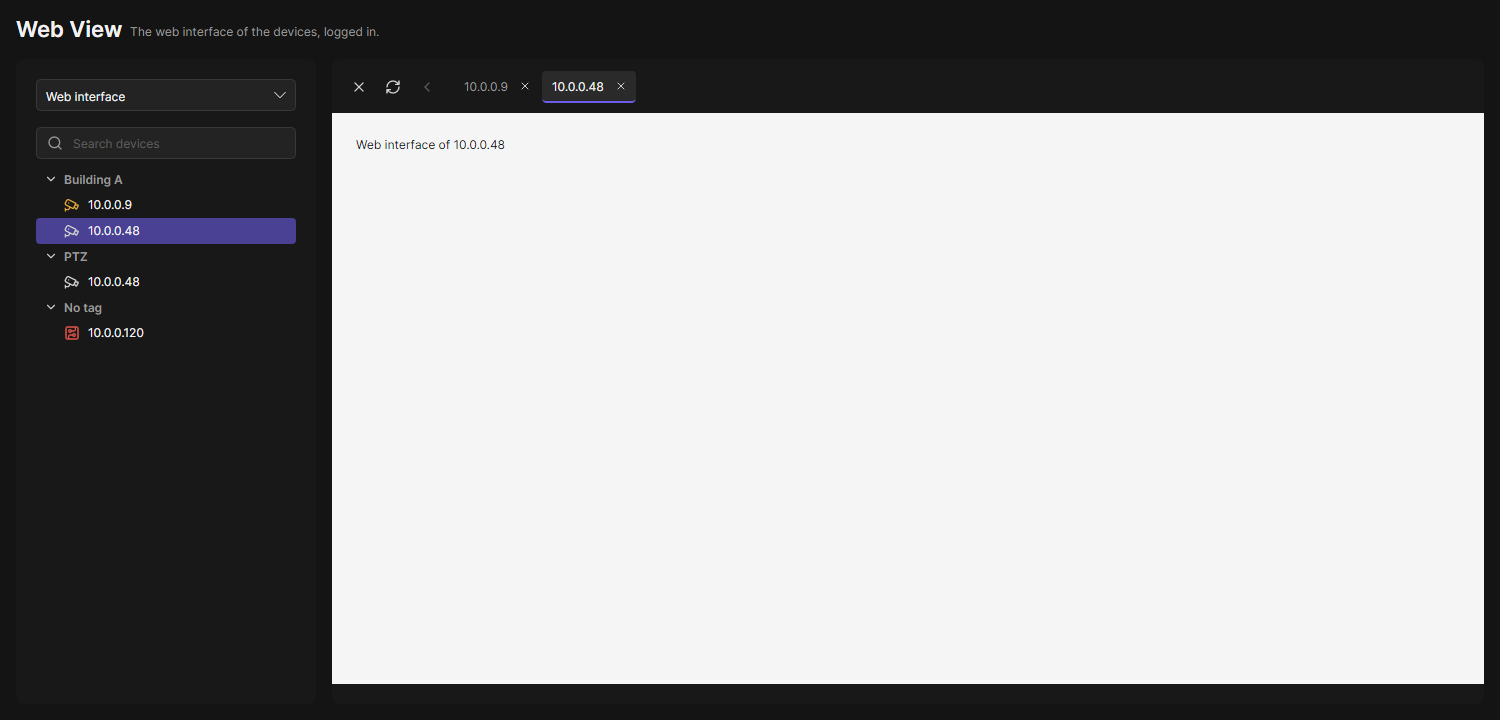
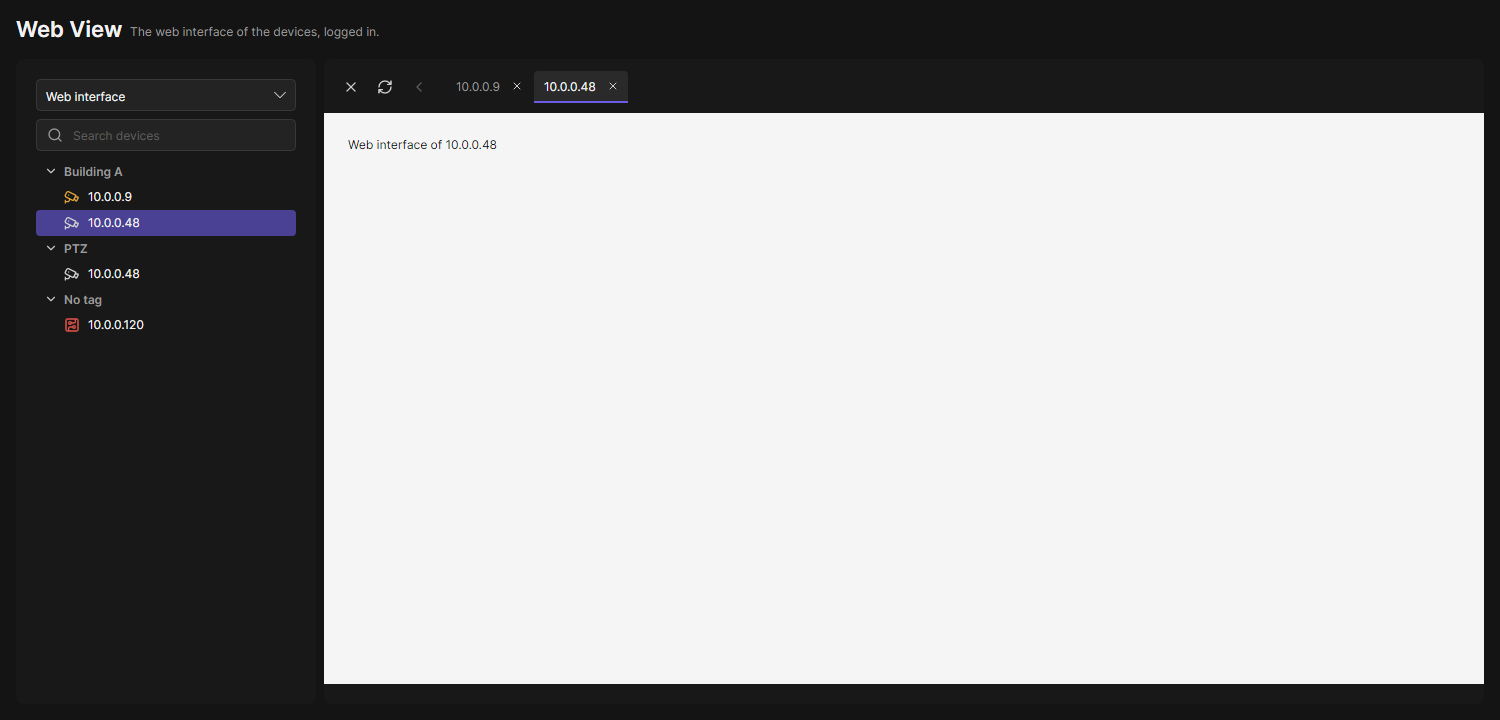
feat(website): animated text sequence on the main page, plugin links
The hero screenshot is replaced by a text-only sequence of sliced
typography: the main claims, then every feature by name with one
sentence. The feature cards become one row of plugin links under
"Explore the plugins". Updated Plugins page and Web View screenshots.

Claude-Session: https://claude.ai/code/session_01DxqjaJMjAJLyCUSTpPxG58

Changed region(s): [[0.0307, 0.1528, 0.3373, 0.9472], [0.368, 0.0917, 0.3987, 0.1528], [0.3067, 0.0917, 0.3373, 0.1528]]

diff --git a/website/src/styles/oadm.css b/website/src/styles/oadm.css
@@ -108,10 +108,6 @@ html[data-has-hero] header site-search {
 	box-shadow: 0 12px 40px rgb(0 0 0 / 0.35);
 }
 
-.hero-screen {
-	margin-block: 1rem 3rem;
-}
-
 /* Landing page feature rows: text and screenshot side by side, stacked on phones. */
 .feature {
 	display: grid;
@@ -149,39 +145,33 @@ html[data-has-hero] header site-search {
 .section-lead {
 	text-align: center;
 	font-size: var(--sl-text-xl);
-	color: var(--sl-color-white);
+	color: var(--sl-color-accent-high);
 	margin-block: 3rem 1.5rem;
 }
 
+/* Landing page: every feature by name, one link each to its page */
 .extras {
-	display: grid;
-	grid-template-columns: repeat(auto-fill, minmax(12rem, 1fr));
-	gap: 0.75rem;
+	display: flex;
+	flex-wrap: wrap;
+	justify-content: center;
+	gap: 0.5rem;
+	max-width: 56rem;
+	margin-inline: auto;
 }
 
 .extras a {
-	display: flex;
-	flex-direction: column;
-	gap: 0.25rem;
-	padding: 1rem 1.1rem;
+	padding: 0.4rem 0.9rem;
 	border: 1px solid var(--sl-color-gray-5);
-	border-radius: 12px;
-	background: color-mix(in srgb, var(--sl-color-black) 80%, transparent);
+	border-radius: 999px;
+	color: var(--sl-color-gray-2);
+	font-size: var(--sl-text-sm);
 	text-decoration: none;
-	transition: border-color 0.15s;
+	transition: border-color 0.15s, color 0.15s;
 }
 
 .extras a:hover {
 	border-color: var(--sl-color-accent);
-}
-
-.extras strong {
 	color: var(--sl-color-white);
-}
-
-.extras span {
-	color: var(--sl-color-gray-3);
-	font-size: var(--sl-text-sm);
 }
 
 .gallery {
